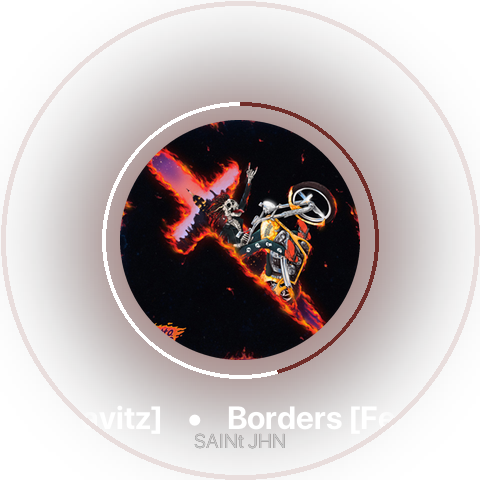
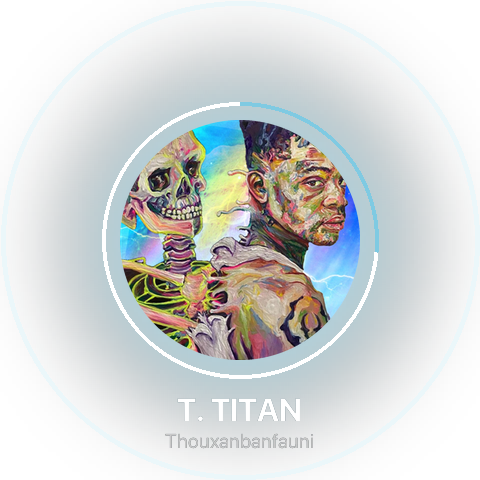
Animation revamp

diff --git a/tela_completa.py b/tela_completa.py
@@ -8,6 +8,7 @@ import threading
 import time
 import sys
 import contextlib
+import shutil
 
 # --- CORREÇÃO CRÍTICA PARA O WINRT (SPOTIFY) ---
 sys.coinit_flags = 0  # 0 = COINIT_MULTITHREADED
@@ -27,6 +28,8 @@ from turingscreencli.transport import (
     encrypt_command_packet,
     write_to_device,
 )
+import ao_vivo
+import animacao_capa
 
 os.chdir(os.path.dirname(os.path.abspath(__file__)))
 
@@ -46,13 +49,13 @@ def silenciar_saida():
 
 ARQUIVO_MUSICA = "video_tela.mp4"
 ARQUIVO_BACKGROUND = "video_fundo.mp4"
-FPS = 30
+FPS = 60
 LARGURA = 300
 TAM_CAPA = 240
 ESCONDER_PAUSADO = True
 FALHAS_MAX = 10
 ESPERA_RECONEXAO = 5
-ATUALIZA_A_CADA = 0.03       # Atualiza a imagem a ~33 quadros por segundo
+KBPS = 12000                  # taxa do vídeo H.264 enviado à tela (mais alto = texto mais nítido)
 
 parar = threading.Event()
 estado = {
@@ -281,8 +284,8 @@ def renderizar(snap):
     # 3. Capa do Álbum (Perfeitamente redonda, instantânea e leve)
     capa = snap.get("capa")
     if capa is not None and musica:
-        x_capa = cx - (TAM_CAPA // 2)
-        y_capa = cy - (TAM_CAPA // 2)
+        x_capa = cx - (capa.width // 2)
+        y_capa = cy - (capa.height // 2)
         
         # Desenha diretamente a capa já tratada e circular, sem sobrecarregar o CPU com filtros por frame
         img.alpha_composite(capa, (x_capa, y_capa))
@@ -441,15 +444,108 @@ def renderizar(snap):
     return img
 
 
+COR_PADRAO = (30, 215, 96, 255)
+
+
+def _cor_rgba(cor):
+    c = tuple(int(round(x)) for x in (cor or COR_PADRAO))
+    return c if len(c) == 4 else (c[0], c[1], c[2], 255)
+
+
+class Painel:
+    """Monta cada quadro da transmissão ao vivo: vídeo de fundo + painel + animação de troca de capa.
+
+    Tudo vira vídeo H.264 (ao_vivo.py), então a animação não depende do tempo que a tela
+    leva para receber cada imagem. Roda na thread do pipeline."""
+
+    def __init__(self, fundo_musica, fundo_ocioso, brilho_inicial):
+        self.fundo_musica = fundo_musica
+        self.fundo_ocioso = fundo_ocioso
+        self.pipe = None
+        self.brilho = brilho_inicial
+        self.t_brilho = 0.0
+        self.erro_log = ""
+        self._zerar()
+
+    def _zerar(self):
+        self.capa = None        # capa exibida (quando não há transição)
+        self.cor = None
+        self.destino = None     # (capa, cor) para onde a transição em curso vai
+        self.alvo = None        # última capa do estado que já provocou uma transição
+        self.trans = None
+        self.titulo = None      # (título, artista) exibido
+
+    def _checar_brilho(self, agora):
+        if agora - self.t_brilho < 2.0 or self.pipe is None:
+            return
+        self.t_brilho = agora
+        novo = brilho_para(datetime.datetime.now())
+        if novo != self.brilho:
+            self.brilho = novo
+            # só a thread do USB fala com a tela
+            self.pipe.env.executar(lambda dev, b=novo: operations.send_brightness_command(dev, b))
+            log(f"Brilho alterado para: {novo}%")
+
+    def _painel(self, snap, agora):
+        cap = snap.get("capa")
+        cor_nova = _cor_rgba(snap.get("cor_viva") or snap.get("cor_capa"))
+
+        if cap is not None and cap is not self.alvo:
+            if self.trans is not None and self.destino is not None:
+                self.capa, self.cor = self.destino      # troca rápida: parte do destino anterior
+            self.alvo = cap
+            self.destino = (cap, cor_nova)
+            self.trans = animacao_capa.TransicaoCapa(
+                self.capa, self.cor, cap, cor_nova, inicio=agora)
+
+        capa_img, cor = None, cor_nova
+        if self.trans is not None:
+            capa_img, cor, metade, fim = self.trans.quadro(agora)
+            if metade:
+                self.titulo = snap["musica"]            # o texto troca no meio do giro
+            if fim:
+                self.trans = None
+                self.capa, self.cor = self.destino
+        if self.trans is None:
+            self.titulo = snap["musica"]
+            if self.capa is not None:
+                capa_img, cor = self.capa, self.cor
+        if self.titulo is None:
+            self.titulo = snap["musica"]                # primeira música: texto e anel já aparecem
+
+        cor = _cor_rgba(cor)
+        snap.update(musica=self.titulo, capa=capa_img, cor_viva=cor, cor_capa=cor)
+        return renderizar(snap)
+
+    def quadro(self, agora):
+        self._checar_brilho(agora)
+        snap = dict(estado)
+        tem = snap.get("musica") is not None
+        fundo = self.fundo_musica if tem else self.fundo_ocioso
+        bg = fundo.proximo() or Image.new("RGB", (480, 480), (10, 10, 20))
+        if not tem:
+            self._zerar()
+            return bg
+        try:
+            ov = self._painel(snap, agora)
+        except Exception as exc:
+            if str(exc) != self.erro_log:
+                self.erro_log = str(exc)
+                log(f"erro desenhando o painel: {exc}")
+            return bg
+        base = bg.convert("RGBA")
+        base.alpha_composite(ov)
+        return base.convert("RGB")
+
+
 def sessao_usb():
+    if shutil.which("ffmpeg") is None:
+        raise RuntimeError("ffmpeg não encontrado no PATH")
     dev = libusb_package.find(idVendor=0x1CBE, idProduct=0x21)
     if dev is None:
         raise RuntimeError("tela não encontrada")
     try:
         dev.set_configuration()
-        
-        h264_musica = operations.extract_h264_from_mp4(ARQUIVO_MUSICA)
-        h264_fundo = operations.extract_h264_from_mp4(ARQUIVO_BACKGROUND)
 
         def cmd(n):
             pacote = encrypt_command_packet(build_command_packet_header(n))
@@ -479,96 +575,43 @@ def sessao_usb():
                 time.sleep(0.05)
             except Exception:
                 pass
-        
+
         log(f"tela conectada - brilho inicial: {brilho}%")
 
-        ultimo_check = 0.0
-        ultimo_overlay = 0.0
-        ultimo_hash = None
-        falhas = 0
+        fundo_musica = ao_vivo.FundoDecoder(ARQUIVO_MUSICA, FPS)
+        fundo_ocioso = ao_vivo.FundoDecoder(ARQUIVO_BACKGROUND, FPS)
+        painel = Painel(fundo_musica, fundo_ocioso, brilho)
 
-        # CONTADOR DE AQUECIMENTO DO VÍDEO AO DESPAUSAR
-        frames_aquecimento = 0
+        # O pipeline dá parar.set() no próprio evento ao terminar (inclusive por erro);
+        # por isso ele usa um evento só da sessão, ligado ao parar global por esta ponte.
+        parar_sessao = threading.Event()
 
-        fh_musica = open(h264_musica, "rb")
-        fh_fundo = open(h264_fundo, "rb")
-        tinha_midia = estado.get("musica") is not None
-        
+        def ponte():
+            while not parar_sessao.is_set():
+                if parar.wait(0.2):
+                    parar_sessao.set()
+
+        threading.Thread(target=ponte, daemon=True).start()
+
+        pipe = ao_vivo.PipelineAoVivo(
+            dev, painel.quadro, fps=FPS, kbps=KBPS, parar=parar_sessao)
+        painel.pipe = pipe
         try:
-            while not parar.is_set():
-                agora = time.time()
-                if agora - ultimo_check >= 5:
-                    ultimo_check = agora
-                    novo = brilho_para(datetime.datetime.now())
-                    if novo != brilho:
-                        brilho = novo
-                        operations.send_brightness_command(dev, brilho)
-                        log(f"Brilho alterado para: {brilho}%")
-
-                tem_midia = estado.get("musica") is not None
-                if tem_midia != tinha_midia:
-                    tinha_midia = tem_midia
-                    (fh_musica if tem_midia else fh_fundo).seek(0)
-                    if tem_midia:
-                        frames_aquecimento = 1  # Ignora a capa nos primeiros 4 quadros (~120ms) para o vídeo arrancar limpo    
-                fh_ativo = fh_musica if tem_midia else fh_fundo
-                
-                data = fh_ativo.read(202752)
-                if not data:
-                    fh_ativo.seek(0)
-                    data = fh_ativo.read(202752)
-                
-                pacote = build_command_packet_header(121)
-                pacote[8:12] = len(data).to_bytes(4, "big")
-                carga = encrypt_command_packet(pacote) + data
-                resp = write_to_device(dev, carga)
-                time.sleep(0.03)
-
-                if resp is None:
-                    falhas += 1
-                    if falhas >= FALHAS_MAX:
-                        raise RuntimeError("tela sem resposta")
-                else:
-                    falhas = 0
-                if resp is None or len(resp) < 9 or resp[8] <= 3:
-                    operations.delay(dev, 2)
-
-                agora = time.time()
-                if agora - ultimo_check >= 2:
-                    ultimo_check = agora
-                    novo = brilho_para(datetime.datetime.now())
-                    if novo != brilho:
-                        brilho = novo
-                        operations.send_brightness_command(dev, brilho)
-                        log(f"Brilho alterado para: {brilho}%")
-
-                if agora - ultimo_overlay >= ATUALIZA_A_CADA:
-                    ultimo_overlay = agora
-                    
-                    if frames_aquecimento > 0:
-                        frames_aquecimento -= 1
-                        # Envia apenas o vídeo puro (sem renderizar capa, arcos ou texto por cima)
-                        img = Image.new("RGBA", (480, 480), (0, 0, 0, 0))
-                    elif tem_midia or _cache_vol_opacidade > 0:
-                        img = renderizar(dict(estado))
-                    else:
-                        img = Image.new("RGBA", (480, 480), (0, 0, 0, 0))
-
-                    # Envia diretamente o frame contínuo para garantir a fluidez do letreiro
-                    img.save("overlay.png")
-                    operations.send_image(dev, "overlay.png")
-
+            pipe.rodar()
         finally:
-            fh_musica.close()
-            fh_fundo.close()
-            
-        cmd(123)
+            parar_sessao.set()
+            fundo_musica.fechar()
+            fundo_ocioso.fechar()
+            try:
+                cmd(123)
+            except Exception:
+                pass
     finally:
         try:
             usb.util.dispose_resources(dev)
         except Exception:
             pass
-        
+
 
 def transmitir():
     while not parar.is_set():
